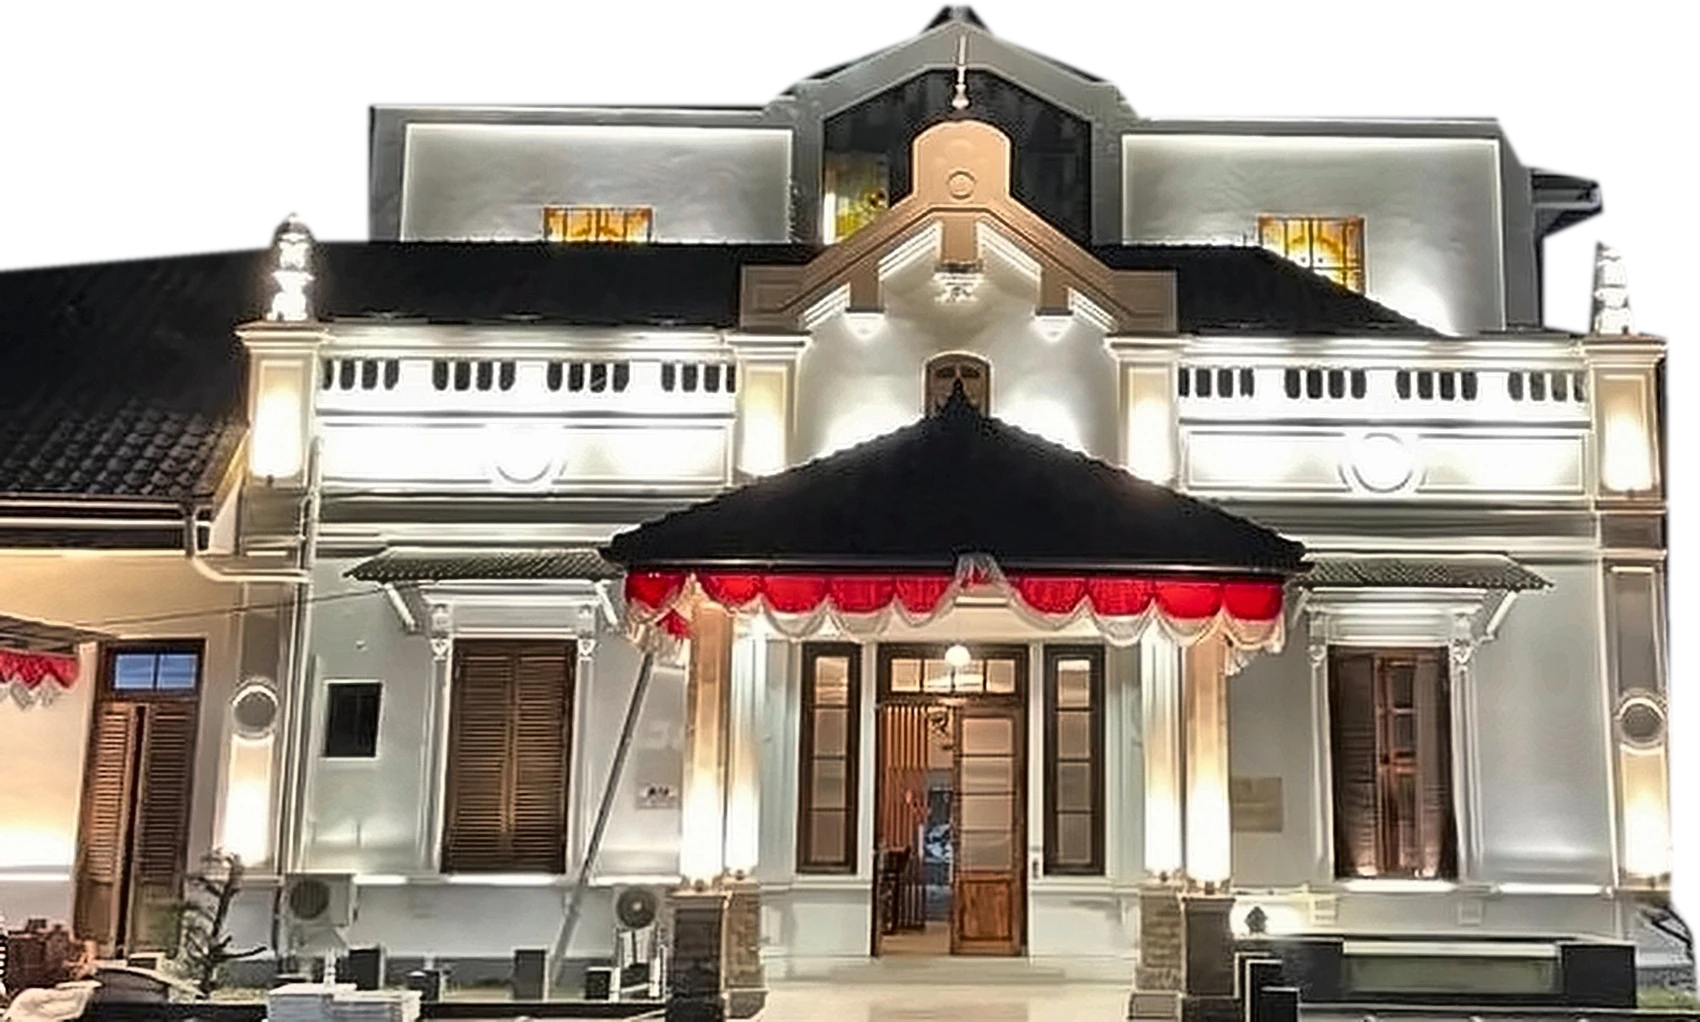
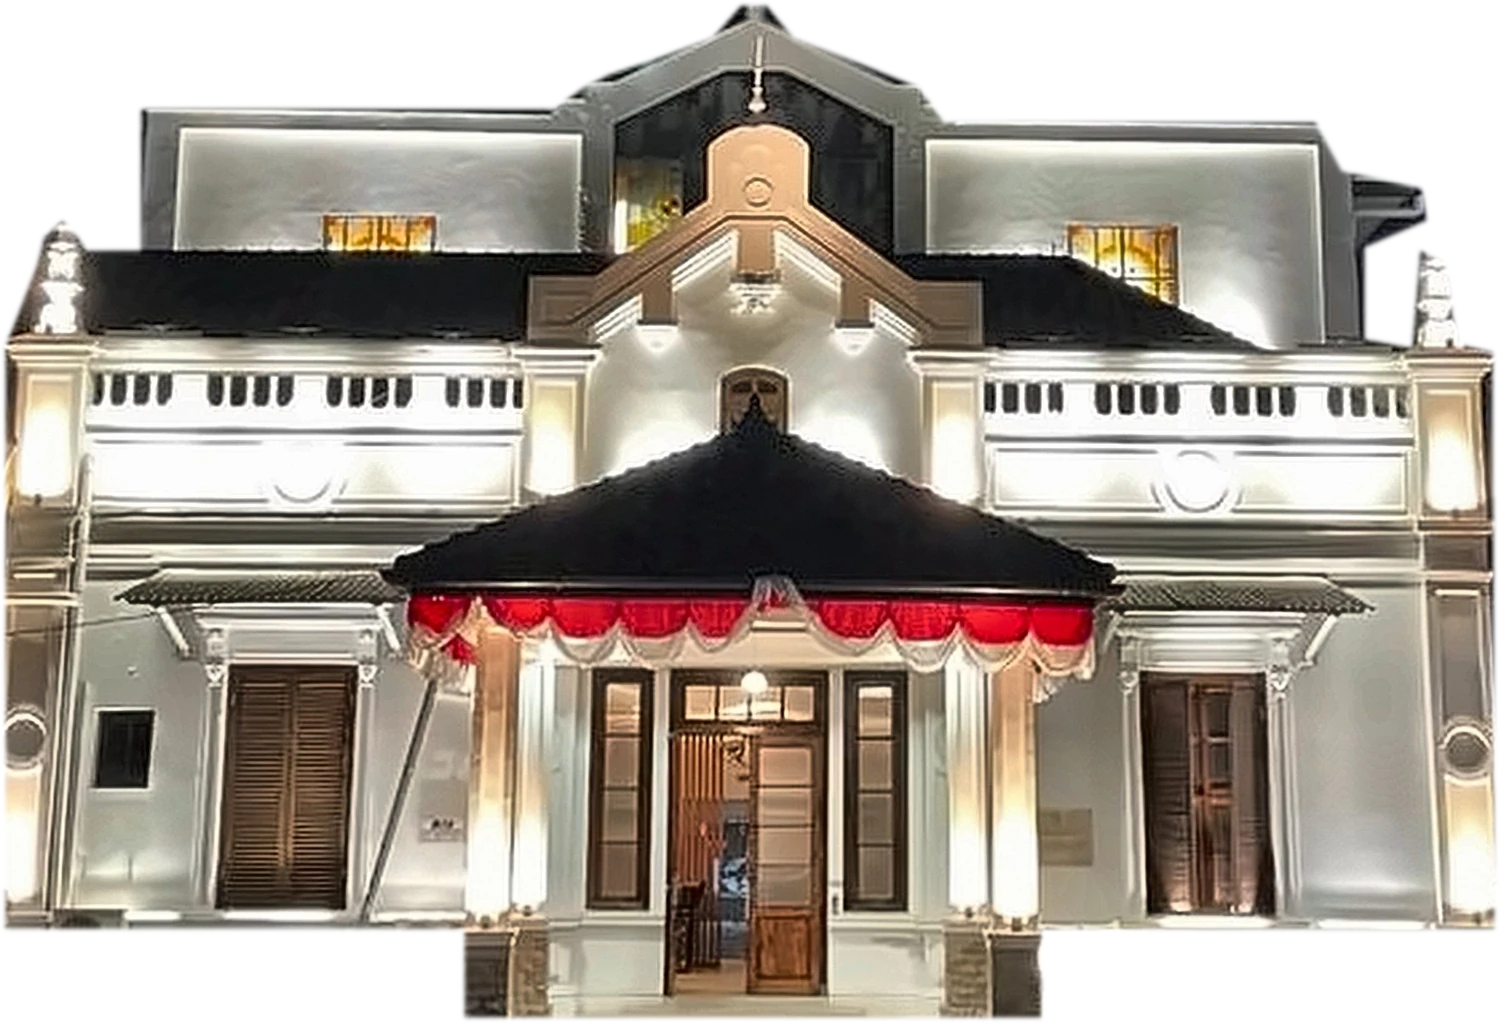
Login: sisakan hanya bangunan putih
Claude-Session: https://claude.ai/code/session_01JoRQ9DzH9vdHikVP6n6hCv

diff --git a/index.html b/index.html
@@ -1679,7 +1679,7 @@ else try{
   let u=await new Promise(res=>{const off=A.onAuthStateChanged(auth,x=>{off();res(x)})});
   while(!u){
     u=await new Promise(res=>{
-      const o=document.createElement('div');o.style.cssText='position:fixed;inset:0;z-index:1000;background:linear-gradient(90deg,rgba(8,20,45,0) 0%,rgba(8,20,45,0) 50%,rgba(8,20,45,.7) 100%),linear-gradient(0deg,rgba(8,20,45,.35),rgba(8,20,45,0) 30%),url(login-bld.webp) left bottom/auto 86% no-repeat,radial-gradient(ellipse at 30% 105%,#E8751A 0,rgba(232,117,26,0) 45%),linear-gradient(180deg,#07142B 0%,#14284B 70%,#1B3A6B 100%);display:flex;align-items:center;justify-content:flex-end;padding:24px clamp(20px,5vw,90px);font-family:Plus Jakarta Sans,system-ui,sans-serif';o.innerHTML='<div style="position:relative;max-width:410px;width:100%"><form style="position:relative;background:rgba(255,255,255,.97);border-radius:22px;padding:34px 30px 28px;box-shadow:0 24px 70px rgba(5,15,35,.5);border-top:5px solid #E8751A"><div style="font-size:11px;letter-spacing:.14em;color:#E8751A;font-weight:700;text-transform:uppercase">Dokumen Pengadaan</div><h2 style="margin:6px 0 4px;color:#14284B;font-size:24px;line-height:1.2">Unit Bangunan Daop 2 Bandung</h2><p style="margin:0 0 22px;color:#5F6C82;font-size:14px">Masuk untuk melanjutkan.</p><label style="font-size:12px;font-weight:600;letter-spacing:.04em;text-transform:uppercase;color:#5F6C82">Email</label><input name="e" type="email" required autocomplete="username" style="display:block;width:100%;box-sizing:border-box;margin:5px 0 14px;padding:12px 14px;border:1px solid #D5DDEB;border-radius:12px;font:inherit;background:#F8FAFD"><label style="font-size:12px;font-weight:600;letter-spacing:.04em;text-transform:uppercase;color:#5F6C82">Kata sandi</label><input name="p" type="password" required autocomplete="current-password" style="display:block;width:100%;box-sizing:border-box;margin:5px 0 14px;padding:12px 14px;border:1px solid #D5DDEB;border-radius:12px;font:inherit;background:#F8FAFD;margin-bottom:18px"><button style="width:100%;padding:13px;border:0;border-radius:12px;background:linear-gradient(135deg,#14284B,#24498A);color:#fff;font:inherit;font-weight:700;cursor:pointer;box-shadow:0 8px 20px rgba(20,40,75,.35)">Masuk</button><p id="lerr" style="color:#B3261E;font-size:13px;margin:10px 0 0;min-height:18px"></p></form></div>';
+      const o=document.createElement('div');o.style.cssText='position:fixed;inset:0;z-index:1000;background:linear-gradient(90deg,rgba(8,20,45,0) 0%,rgba(8,20,45,0) 50%,rgba(8,20,45,.7) 100%),linear-gradient(0deg,rgba(8,20,45,.35),rgba(8,20,45,0) 30%),url(login-bld.webp) 4vw 92%/auto 80% no-repeat,radial-gradient(ellipse at 30% 105%,#E8751A 0,rgba(232,117,26,0) 45%),linear-gradient(180deg,#07142B 0%,#14284B 70%,#1B3A6B 100%);display:flex;align-items:center;justify-content:flex-end;padding:24px clamp(20px,5vw,90px);font-family:Plus Jakarta Sans,system-ui,sans-serif';o.innerHTML='<div style="position:relative;max-width:410px;width:100%"><form style="position:relative;background:rgba(255,255,255,.97);border-radius:22px;padding:34px 30px 28px;box-shadow:0 24px 70px rgba(5,15,35,.5);border-top:5px solid #E8751A"><div style="font-size:11px;letter-spacing:.14em;color:#E8751A;font-weight:700;text-transform:uppercase">Dokumen Pengadaan</div><h2 style="margin:6px 0 4px;color:#14284B;font-size:24px;line-height:1.2">Unit Bangunan Daop 2 Bandung</h2><p style="margin:0 0 22px;color:#5F6C82;font-size:14px">Masuk untuk melanjutkan.</p><label style="font-size:12px;font-weight:600;letter-spacing:.04em;text-transform:uppercase;color:#5F6C82">Email</label><input name="e" type="email" required autocomplete="username" style="display:block;width:100%;box-sizing:border-box;margin:5px 0 14px;padding:12px 14px;border:1px solid #D5DDEB;border-radius:12px;font:inherit;background:#F8FAFD"><label style="font-size:12px;font-weight:600;letter-spacing:.04em;text-transform:uppercase;color:#5F6C82">Kata sandi</label><input name="p" type="password" required autocomplete="current-password" style="display:block;width:100%;box-sizing:border-box;margin:5px 0 14px;padding:12px 14px;border:1px solid #D5DDEB;border-radius:12px;font:inherit;background:#F8FAFD;margin-bottom:18px"><button style="width:100%;padding:13px;border:0;border-radius:12px;background:linear-gradient(135deg,#14284B,#24498A);color:#fff;font:inherit;font-weight:700;cursor:pointer;box-shadow:0 8px 20px rgba(20,40,75,.35)">Masuk</button><p id="lerr" style="color:#B3261E;font-size:13px;margin:10px 0 0;min-height:18px"></p></form></div>';
       document.body.appendChild(o);
       o.querySelector('form').onsubmit=async ev=>{ev.preventDefault();const f=ev.target;
         try{const c=await A.signInWithEmailAndPassword(auth,f.e.value.trim(),f.p.value);o.remove();res(c.user)}
